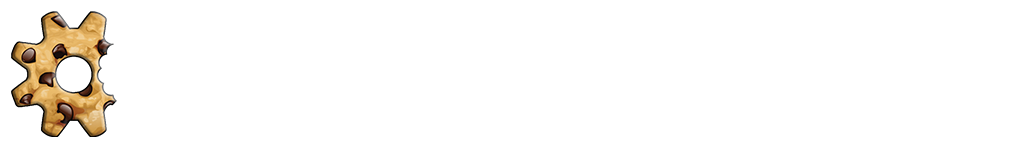
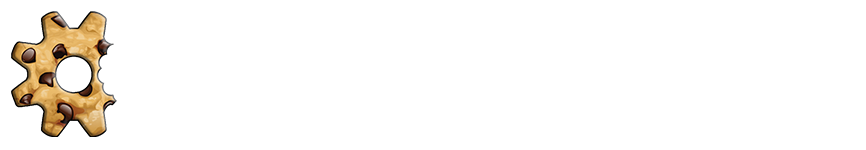
cookie

Changed region(s): [[0.0, 0.08, 0.1559, 0.9333]]

diff --git a/cookies.html b/cookies.html
@@ -6,12 +6,16 @@
 
 <title>Nathan Arcuri - Portfolio</title>
 <head>
-	<div>
-  <a href="index.html" data_temp_dwid="0"><img style="vertical-align:middle" src="bannercookie.png" width="1024" height="150" alt="" data_temp_dwid="1"></a>
-</div>
+	<div><center>
+  <a href="index.html" data_temp_dwid="0"><img style="vertical-align:middle" src="bannercookie.png" width="860" height="150"></a>
+</center></div>
 	
 <style>
-	div {align-content: center}
+	div {float: center;
+		max-width: 960px;
+margin: auto;
+
+	}
 span {
   color: white;
   font-family: Gotham, "Helvetica Neue", Helvetica, Arial, "sans-serif";
@@ -28,31 +32,23 @@ span {
   <li><a href="news.html">News</a></li>
   <li><a href="contact.html">Contact</a></li>
   <li><a href="about.html">About</a></li>
-  <al>Cookies</al>
 </ul>
 
 
 	
 <style>
-al{
-float: right;
-display: block;
-color: white;
-font-family: Gotham, "Helvetica Neue", Helvetica, Arial, "sans-serif";
-text-align: center;
-padding: 14px 16px;
-text-decoration: none;
-}
 ul {
+  float: center;
   list-style-type: none;
-  margin: 0;
   padding: 0;
   overflow: hidden;
   background-color: #333;
+  max-width: 960px;
+  margin: auto;
 }
 
 li {
-  float: left;
+ float: left;
 }
 
 li a {
@@ -69,26 +65,25 @@ li a:hover {
 }
 </style>
 <body bgcolor="#414141">
-	
 
-<content>I make arguably some of the best chocolate chip cookies in existance. Whenever a pot luck is planned, it is expected that I will be bringing cookies. My girlfriend thinks they are "hearty" and I don't know what that means. I will just assume that means that she loves them, because I am fragile and can't handle criticism. If you would like to acquire raw cookie dough from me, I can sell it to you, for monies.
+<content><center><h1>Nathan's Cookies</h1></center>
+	I make arguably some of the best chocolate chip cookies in existance. Whenever a pot luck is planned, it is expected that I will be bringing cookies. My girlfriend thinks they are "hearty" and I don't know what that means. I will just assume that means that she loves them, because I am fragile and can't handle criticism. If you would like to acquire raw cookie dough from me, I can sell it to you, for monies.
 	<br>
 	<br>
-<iframe src="https://docs.google.com/forms/d/e/1FAIpQLSce5FpM34RPuZez_ZtK5lmQwIsa3XLvJaQX-eXGa_xedonOpQ/viewform?embedded=true" width="850" height="1000" frameborder="0" marginheight="0" marginwidth="0">BUY COOKIES! I'M BROKE!</iframe>
+<iframe src="https://docs.google.com/forms/d/e/1FAIpQLSce5FpM34RPuZez_ZtK5lmQwIsa3XLvJaQX-eXGa_xedonOpQ/viewform?embedded=true" width="936" height="940" frameborder="0" marginheight="0" marginwidth="0">BUY COOKIES! I'M BROKE!</iframe>
 </content>
 	<style>
 content{
+max-width: 936px;
+margin: auto;
 float: center;
 display: block;
 color: white;
 font-family: Gotham, "Helvetica Neue", Helvetica, Arial, "sans-serif";
 text-align: left;
-padding: 14px 16px;
+padding: 20px;
 text-decoration: none;
-width: 800px;
 padding: 10px;
-border: 2px solid #9F2017;
-margin: 0;
 }
 </style>
 </body>
